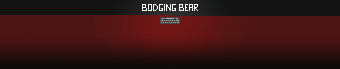
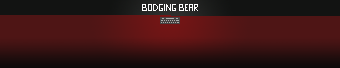
Update nextjs, add hero without bear

Changed region(s): [[0.4118, 0.0882, 0.5882, 0.1765], [0.4706, 0.2353, 0.5294, 0.3529]]

diff --git a/frontend/components/HeroHeader/HeroHeader.jsx b/frontend/components/HeroHeader/HeroHeader.jsx
@@ -3,37 +3,40 @@ import styled from 'styled-components';
 import { breakpoints } from '../../styles/variables';
 
 import BannerBearUrl from '../../static/banner_bear.png';
-import BannerBearBoLogoUrl from '../../static/banner_bear_no_logo.png';
+import BannerBearNoLogoUrl from '../../static/banner_bear_no_logo.png';
 import BannerLogoUrl from '../../static/bb_name.png';
+
+import BannerNoBearUrl from '../../static/banner_no_bear.png';
+import BannerNoBearNoLogoUrl from '../../static/banner_no_bear_no_logo.png';
 
 const Container = styled.header`
   width: 100%;
   position: relative;
-  height: 25rem;
+  height: ${props => (props.showBear ? '25rem' : '16rem')};
 
   @media (min-width: ${breakpoints.tablet}) {
-    height: 35rem;
+    height: ${props => (props.showBear ? '35rem' : '23rem')};
   }
 `;
 
 const ImageOverflowContainer = styled.div`
   position: absolute;
   width: 100%;
-  height: 70rem;
+  height: ${props => (props.showBear ? '70rem' : '56rem')};
   overflow: hidden;
   z-index: -1;
 `;
 
 const Img = styled.img`
   position: absolute;
-  height: 70rem;
+  height: ${props => (props.showBear ? '70rem' : '56rem')};
   top: 0;
   left: 50%;
   transform: translateX(-50%);
   image-rendering: pixelated;
 `;
 
-const ImgBearWithLogo = styled(Img)`
+const ImgWithLogo = styled(Img)`
   display: none;
 
   @media (min-width: ${breakpoints.tablet}) {
@@ -41,9 +44,9 @@ const ImgBearWithLogo = styled(Img)`
   }
 `;
 
-const ImgBearNoLogo = styled(Img)`
+const ImgNoLogo = styled(Img)`
   display: unset;
-  height: 50rem;
+  height: ${props => (props.showBear ? '50rem' : '40rem')};
 
   @media (min-width: ${breakpoints.tablet}) {
     display: none;
@@ -72,17 +75,22 @@ const ImgLogo = styled.img`
   max-width: 40rem;
 `;
 
-const HeroHeader = () => (
-  <Container>
-    <ImageOverflowContainer>
-      <ImgBearWithLogo src={BannerBearUrl} />
-      <ImgBearWithLogo src={BannerBearUrl} />
-      <ImgBearNoLogo src={BannerBearBoLogoUrl} />
-      <ImgLogoContainer>
-        <ImgLogo src={BannerLogoUrl} />
-      </ImgLogoContainer>
-    </ImageOverflowContainer>
-  </Container>
-);
+const HeroHeader = ({ showBear }) => {
+  const urlWithLogo = showBear ? BannerBearUrl : BannerNoBearUrl;
+  const urlNoLogo = showBear ? BannerBearNoLogoUrl : BannerNoBearNoLogoUrl;
+  const urlLogo = BannerLogoUrl;
+
+  return (
+    <Container showBear={showBear}>
+      <ImageOverflowContainer showBear={showBear}>
+        <ImgWithLogo src={urlWithLogo} showBear={showBear} />
+        <ImgNoLogo src={urlNoLogo} showBear={showBear} />
+        <ImgLogoContainer showBear={showBear}>
+          <ImgLogo src={urlLogo} showBear={showBear} />
+        </ImgLogoContainer>
+      </ImageOverflowContainer>
+    </Container>
+  );
+};
 
 export default HeroHeader;

diff --git a/frontend/pages/index.jsx b/frontend/pages/index.jsx
@@ -24,7 +24,7 @@ import email from '../static/email.svg';
 const App = ({ projects, team }) => (
   <>
     <GlobalStyles />
-    <HeroHeader />
+    <HeroHeader showBear />
     <Layout>
       <H1 uppercase center>Our games</H1>
       <Grid gap="3rem" colsTemplate="repeat(auto-fit, minmax(18rem, 1fr))">
